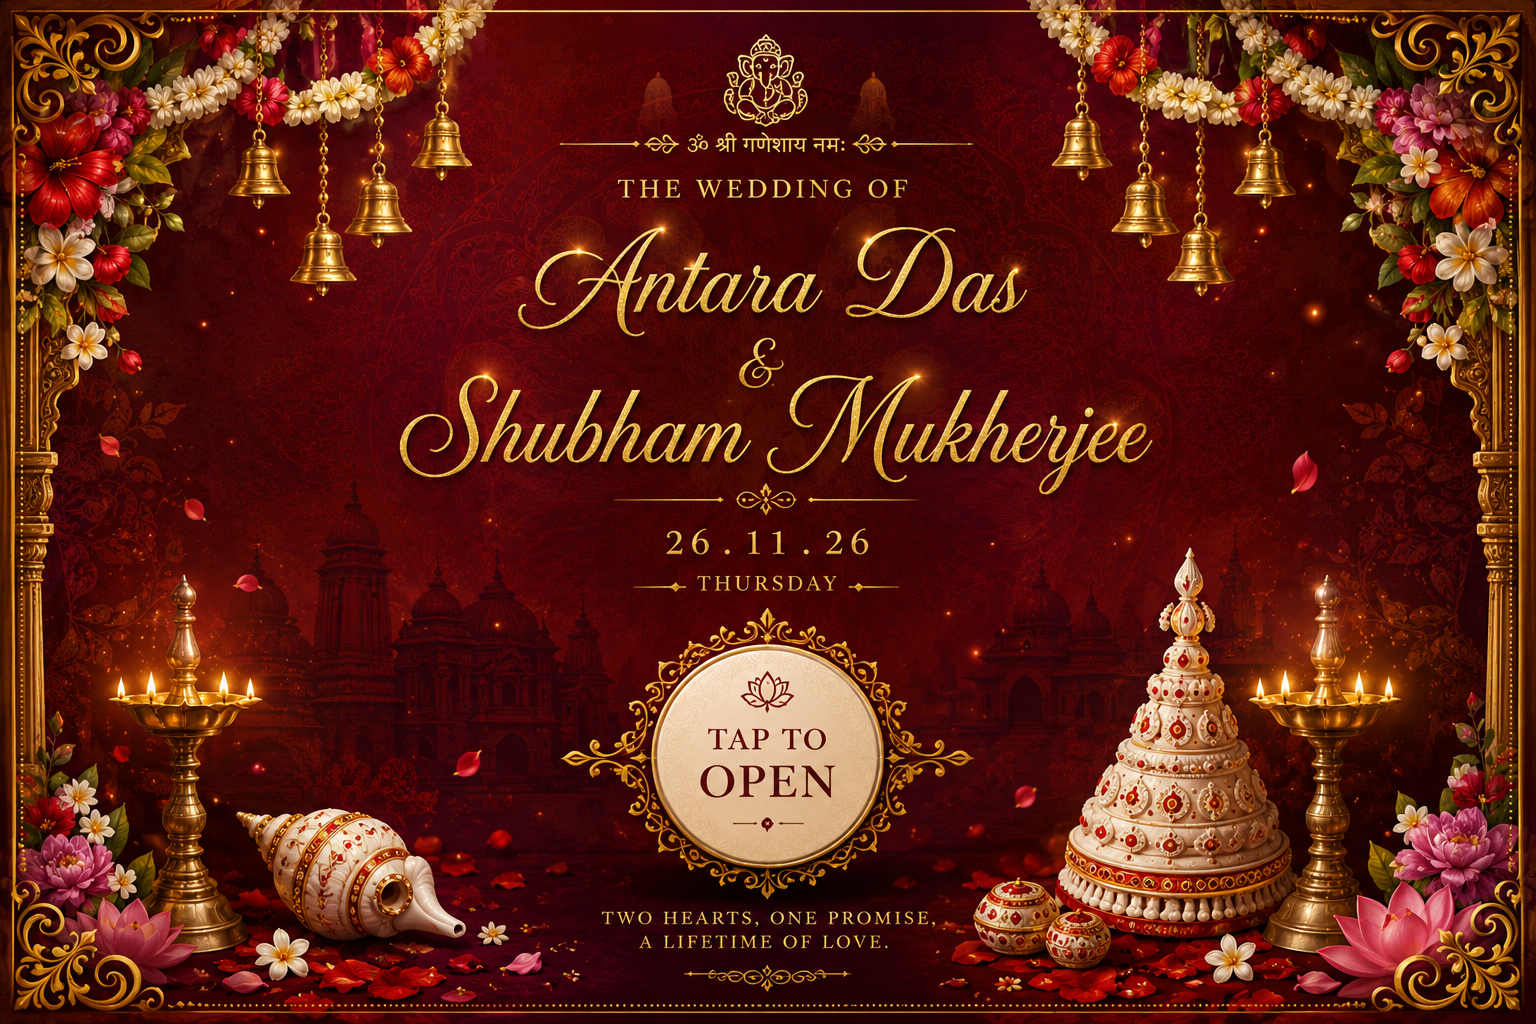
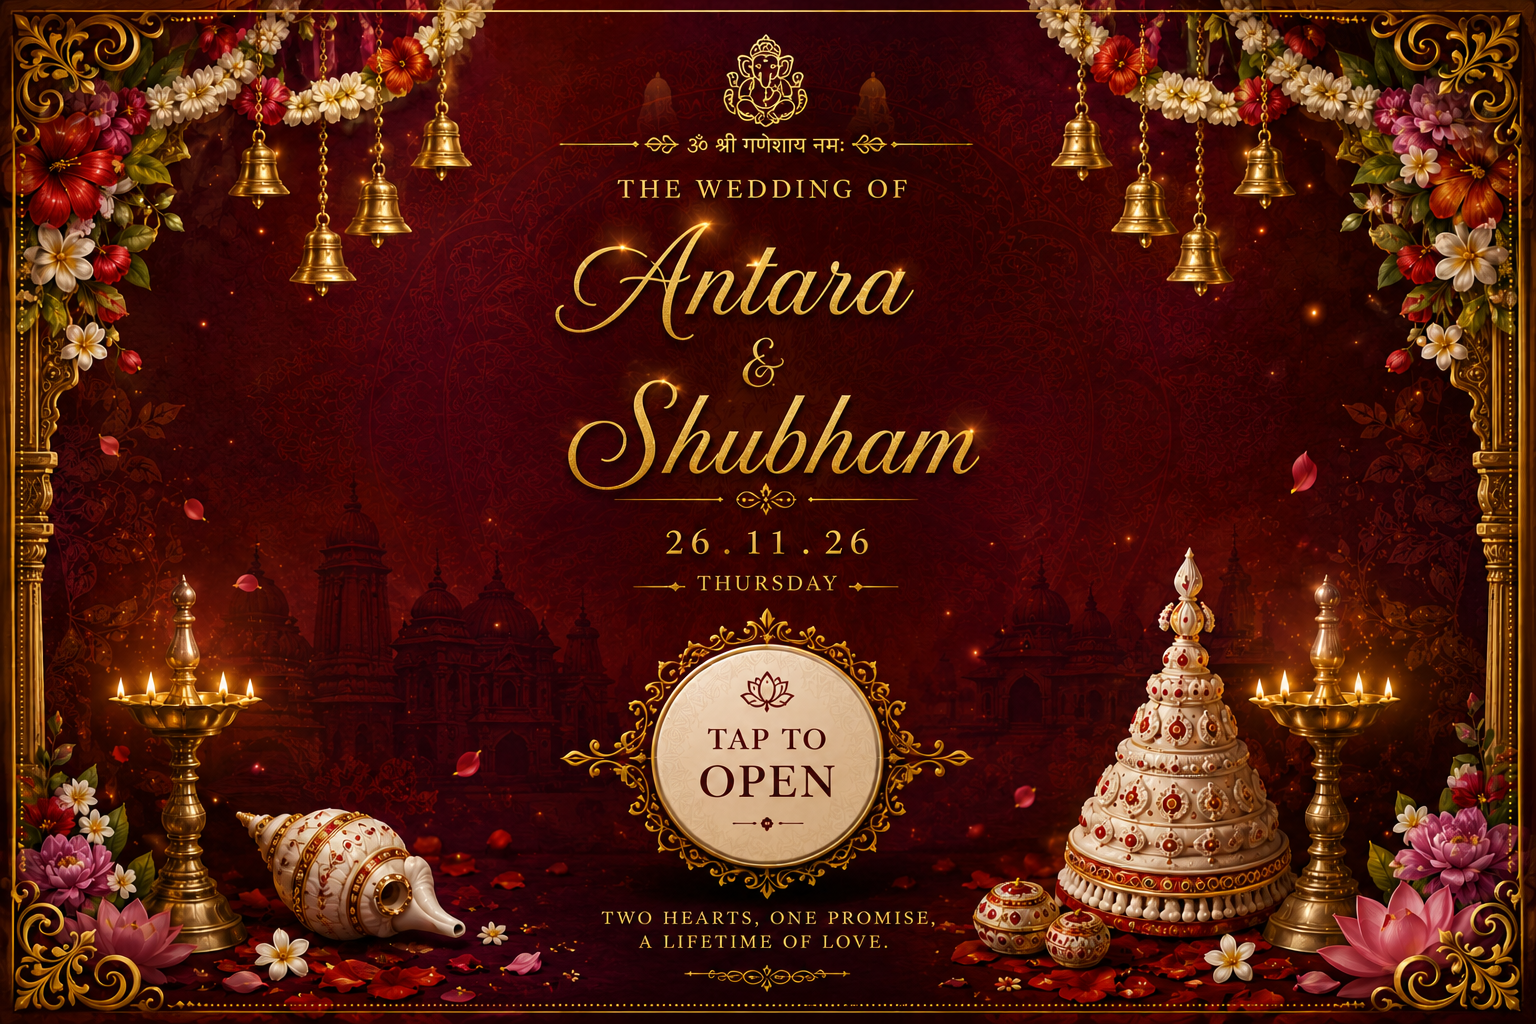
updating wedding website files

diff --git a/src/mobile-polish.css b/src/mobile-polish.css
@@ -1,0 +1,53 @@
+/* Portrait-first refinements: every section remains legible and touch-friendly on phones. */
+@media (max-width: 680px) {
+  body { overflow-x: hidden; }
+  .opening { min-height: 100svh; }
+  .opening-image { height: 100svh; object-fit: cover; object-position: center; }
+  .opening-image-button { width: 44vw; top: 72%; }
+  header { height: 64px; padding: 0 18px; }
+  .brand { font-size: 28px; }
+  .section { padding: 66px 18px; }
+  .section h2 { font-size: clamp(35px, 11vw, 47px); line-height: .98; }
+  .hero { min-height: calc(100svh - 64px); padding-top: 80px; padding-bottom: 88px; }
+  .hero h1 { font-size: clamp(58px, 16vw, 78px); line-height: .76; }
+  .hero .eyebrow { max-width: 260px; justify-self: center; line-height: 1.7; }
+  .hero-copy { font-size: 18px; padding: 0 12px; }
+  .hero .date-card { width: min(100%, 300px); margin-top: 26px; margin-bottom: 18px; padding: 11px 8px; }
+  .date-card div { flex-wrap: wrap; justify-content: center; column-gap: 8px; row-gap: 3px; }
+  .date-card b { font-size: 18px; }
+  .date-card span { width: 100%; }
+  .hero .scroll-cue { width: 100%; bottom: 14px; justify-content: center; font-size: 8px; }
+  .hanging-bells { top: 5px; }
+  .family-grid-photo { gap: 6px; }
+  .family article { padding: 14px 5px; }
+  .family article h3 { font-size: 38px; line-height: .9; }
+  .family article b { font-size: 18px; }
+  .family-hands { width: min(235px, 74vw); }
+  .details .event-grid { grid-template-columns: 1fr 1fr; gap: 10px; }
+  .details .event-grid article { min-height: 145px; padding: 18px 7px; }
+  .event-grid h3 { font-size: 25px; }
+  .countdown { margin: 30px -8px 0; gap: 4px; }
+  .countdown div { padding: 9px 3px; }
+  .countdown b { font-size: 24px; }
+  .countdown span { font-size: 7px; letter-spacing: .08em; }
+  .story { gap: 32px; }
+  .story-photo { width: min(100%, 330px); aspect-ratio: 4 / 5; }
+  .story p:not(.eyebrow) { font-size: 18px; }
+  .gallery-grid { grid-template-columns: 1fr 1fr; gap: 10px; margin-top: 24px; }
+  .gallery-grid .photo { aspect-ratio: 3 / 4; }
+  .gallery-grid figcaption { padding: 22px 6px 8px; font-size: 18px; }
+  .venue-card { padding: 18px; gap: 12px; }
+  .venue-card h3 { font-size: 26px; }
+  .venue-card p { font-size: 16px; line-height: 1.35; }
+  .greeting p:not(.eyebrow) { font-size: 19px; }
+  footer { padding: 48px 18px; }
+  footer h2 { font-size: 42px; }
+}
+
+@media (max-width: 380px) {
+  .hero h1 { font-size: 55px; }
+  .details .event-grid { grid-template-columns: 1fr; }
+  .details .event-grid article { min-height: 126px; }
+  .gallery-grid { gap: 7px; }
+  .countdown b { font-size: 21px; }
+}

diff --git a/src/main.jsx b/src/main.jsx
@@ -6,5 +6,6 @@ import './gallery.css';
 import './custom.css';
 import './celebration-motion.css';
 import './gallery-celebration.css';
+import './mobile-polish.css';
 
 createRoot(document.getElementById('root')).render(<StrictMode><App /></StrictMode>);
